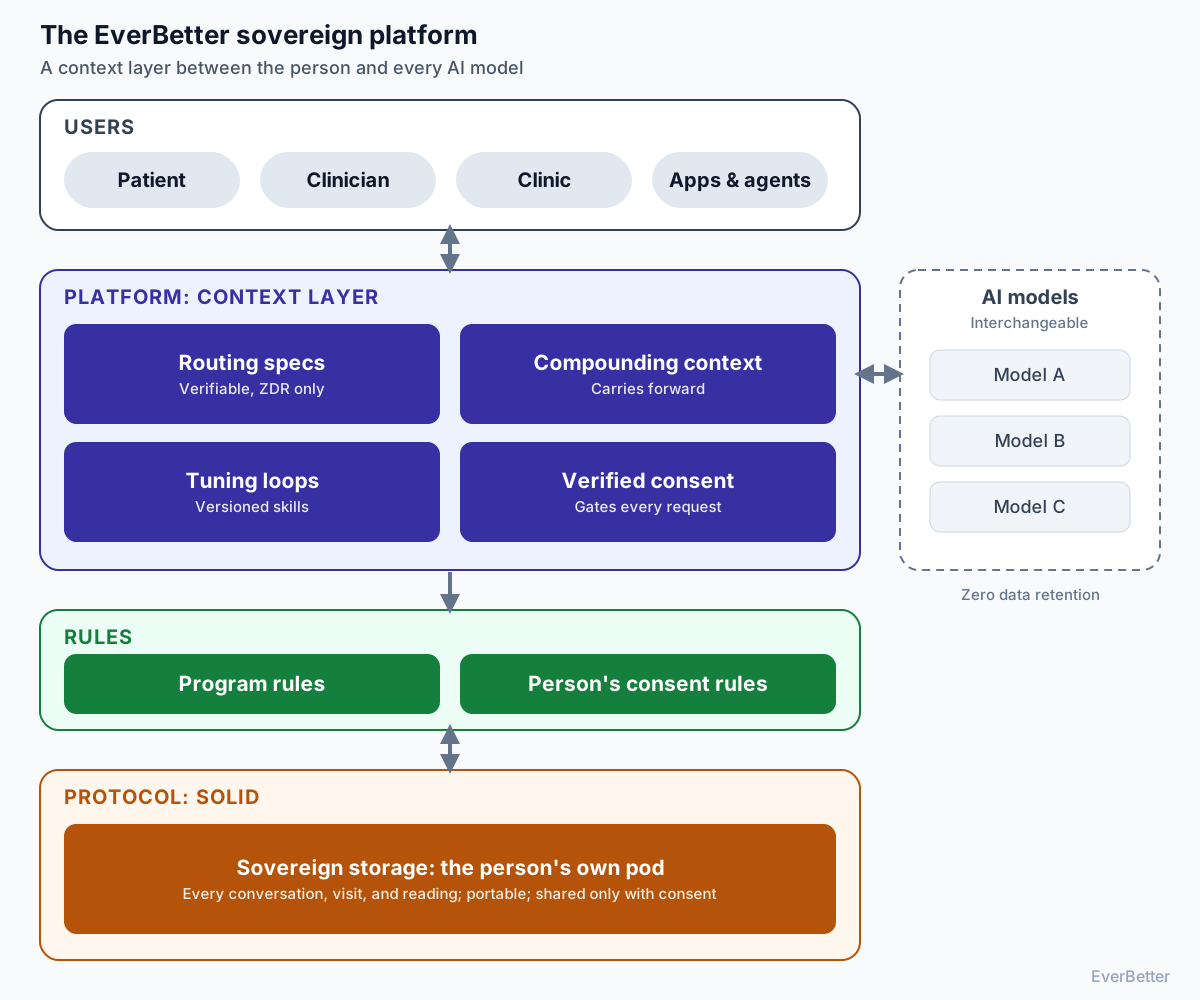
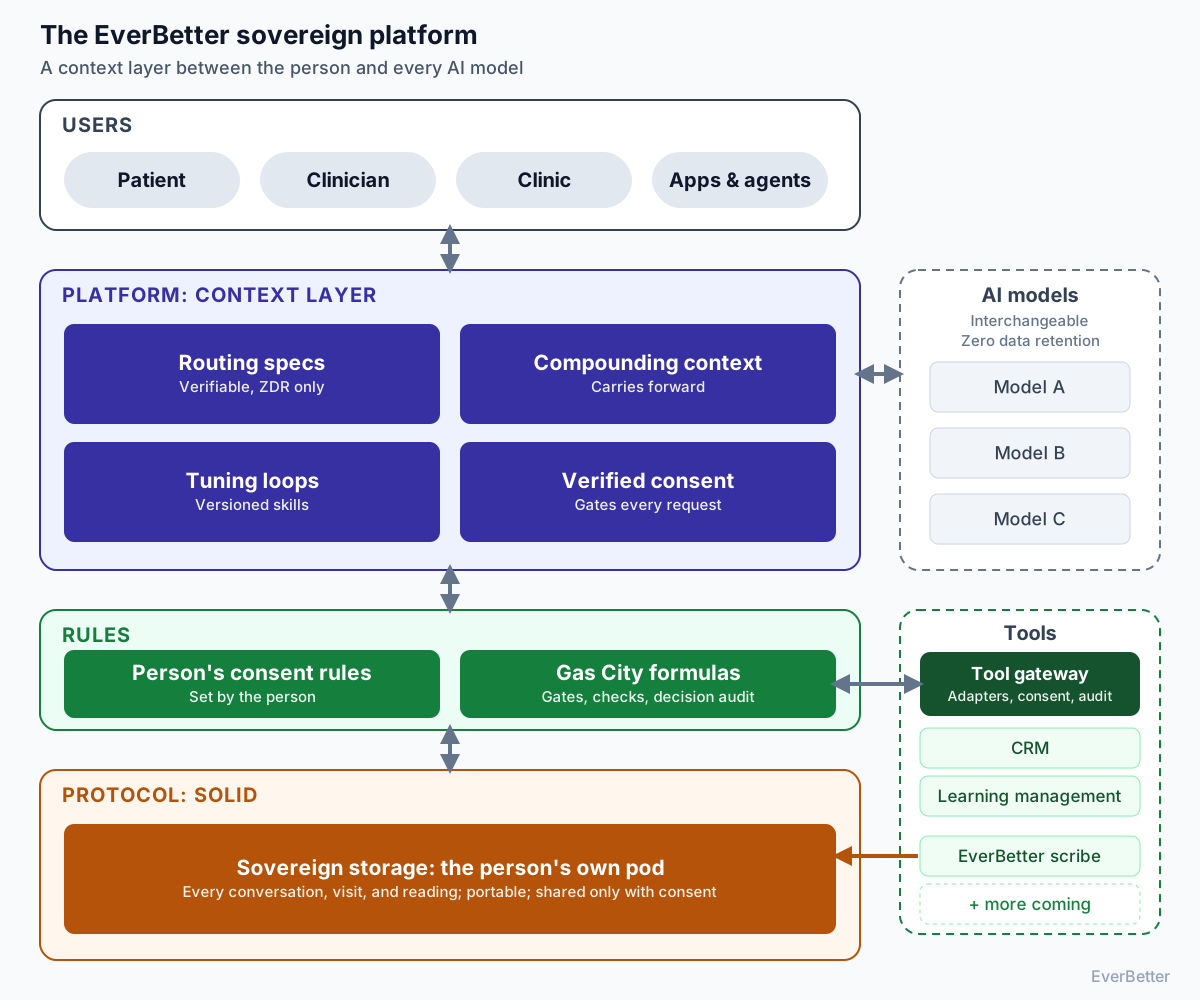
docs(gas-city): the credential incident, as evidence for the first ask
The first ask was about a quarantined check letting its step close — a gate
failing OPEN. The 2026-10-09 incident is the same missing distinction failing
the other way, and it is better evidence because it happened unattended and we
read it wrong first.

The Claude CLI OAuth session expired while two workflows ran over three days.
Every agent attempt failed in under a second, and SEVEN steps closed fail:

    Write the design
    Gate: the design passes its rules
    Gate: the audit is real and came from a different model
    Gate: every question came back with an answer
    A person answers
    Put the findings in front of a person
    Draw both views and the brief

Read cold, a design that failed its rules, failed its audit gate and could not
be drawn. It was one credential. The attempt log records only "attempt subject
<id> already failed" — the bead that failed, not what failed about it.

So the two asks merge into one, because they are one missing distinction: Gas
City records pass or fail and has no third outcome for could-not-run. We already
solved this inside our own layer and know the fix is small — before exit 75
existed, a missing API key reached a person as "your design needs revision".

The part that makes it a correctness issue rather than ergonomics: the bead store
IS the audit record, and a record that cannot distinguish "this was refused" from
"this could not be attempted" answers a regulator's question wrongly, in the
[…]

diff --git a/docs/for-gas-city.md b/docs/for-gas-city.md
@@ -160,8 +160,11 @@ A non-trivial workload, run repeatedly over two weeks:
 - `gc sling` → cook → materialize → route, confirmed by reading `routed_to` rather than output
 - the control dispatcher, the ready queue, and bead metadata as the run's own record
 
-It works. The failures we hit were almost entirely at **the boundary between a formula and the
-scripts it invokes** — which is partly your surface, and is in §5.
+It works, including unattended for three days across a credential expiry — the beads carried
+every run intact, and nothing had to be reconstructed.
+
+The failures we hit were almost entirely at **the boundary between a formula and the scripts it
+invokes** — which is partly your surface, and is in §5.
 
 ---
 
@@ -169,11 +172,74 @@ scripts it invokes** — which is partly your surface, and is in §5.
 
 Ordered by how much it costs us.
 
-**1. A quarantined check must not let its step close.** This is the one that matters. A check that
-cannot run leaves its step free to close, so a gate can fail *open* when its check is broken. For
-anyone using checks as controls — which is the entire regulated use case — that is a correctness
-problem, not an ergonomics one. We work around it by making each gate its own step with a bead a
-person can read afterwards. We cannot work around it in general.
+**1. A step that could not run must not close as a step that failed — and a check that could not
+run must not let its step close at all.** One ask, because it is one missing distinction, and it
+is the only thing on this list I would call a correctness problem rather than an ergonomics one.
+
+Gas City records a step as `pass` or `fail`. There is no third outcome for *could not run*, and the
+gap shows in both directions:
+
+- **failing open.** A quarantined check leaves its step free to close, so a gate permits when its
+  own check is broken. We work around it by making every gate its own step with a bead a person can
+  read afterwards. We cannot work around it in general.
+- **failing closed, and misattributing it.** An infrastructure failure consumes the step's attempts
+  and closes it `fail`, which reads as a verdict on the work.
+
+### The incident, 2026-10-09
+
+We left two workflows running unattended over three days. The Claude CLI's OAuth session expired:
+
+```
+Failed to authenticate: OAuth session expired and could not be refreshed
+```
+
+Every agent attempt after that failed in under a second. When we came back, one run showed **seven
+steps closed `fail`**:
+
+```
+FAILED  Write the design
+FAILED  Gate: the design passes its rules
+FAILED  Gate: every question came back with an answer
+FAILED  Gate: the audit is real and came from a different model
+FAILED  A person answers
+FAILED  Put the findings in front of a person
+FAILED  Draw both views and the brief
+```
+
+Read cold, that is a design that failed its rules, failed its audit gate, and could not even be
+drawn. **None of it is true.** It is one expired credential. The authoring step spent all five of its attempts on an
+auth error, and the `gc.attempt_log` records only `attempt subject <id> already failed` — which
+names the bead that failed, not what failed about it.
+
+Nothing was lost, because our artifacts are files and the answers survived. But anyone auditing
+those beads later finds six controls that read as refusals and were not, and the cost of telling
+the difference is a person remembering what was happening that week.
+
+### Why we care about this one more than the others
+
+We already solved it inside our own layer, which is how we know the fix is small and the benefit is
+large. Every check we write honours three codes, and the third is the whole point:
+
+```
+0   the condition does not hold; work continues
+1   refused — a BUSINESS outcome, and the refusal names the next human action
+75  could not run — INFRASTRUCTURE. Costs no attempt, and never reads as a failure
+```
+
+Before we had 75, a missing API key reached a person as *"your design needs revision."* After it,
+the same failure says what was missing and costs nothing. That one distinction removed more
+confusion than any other change we made.
+
+What we cannot do is carry it upward. Our checks exit 75 faithfully; the orchestrator has nowhere
+to put it, so it becomes `fail` on the bead. For a regulated buyer this matters beyond
+ergonomics: **the bead store is the audit record**, and an audit record that cannot distinguish
+*"this was refused"* from *"this could not be attempted"* is answering a regulator's question
+wrongly, in the direction that looks worse than reality.
+
+The shape of the ask: a third terminal outcome on a step — `blocked`, `could_not_run`, whatever you
+call it — that does not consume an attempt, and that a formula can be told to treat as neither pass
+nor fail. If exit 75 from an exec check already reaches you, most of the information is there
+already.
 
 **2. Per-step thinking effort.** No supported way to set it, so every stumble in a cheap
 deterministic step costs max-effort deliberation. Our most expensive runs were expensive for this

diff --git a/docs/DISCOVERIES.md b/docs/DISCOVERIES.md
@@ -385,3 +385,13 @@ the design was not written for, and the new paths are where the deadlocks are.
 **cost** Nothing, because they were rendered before being published. Everything, had they not been.
 **changed** Every diagram is rendered to SVG and committed beside the document, and a test refuses a sequence message carrying either token.
 **generalizes** A document is not verified by being written carefully. The same notation can have different lexers per diagram type, and the subset that works in one is not the subset that works in another. Render it, or do not claim it.
+
+---
+
+## D29 · 2026-10-12 · An expired credential closed seven steps as business failures
+
+**believed** Our exit-code contract — 0 pass, 1 refused, 75 could not run — protects the record. Every check we write honours it faithfully.
+**happened** The Claude CLI OAuth session expired while two workflows ran unattended for three days. Every agent attempt failed in under a second, and seven steps closed gc.outcome=fail: Write the design, Gate: the design passes its rules, Gate: the audit is real, and four more. The beads read as a design that failed its rules and could not be drawn. It was one credential. The attempt log records only 'attempt subject <id> already failed', which names the bead that failed and not what failed about it.
+**cost** Three days of unattended running, and a diagnosis that began by reading the run as a broken design.
+**changed** Nothing in our layer, because our checks already exit 75 correctly. The orchestrator has nowhere to put a 75, so it becomes fail on the bead. Written up as the first ask in the Gas City letter, with this incident as the evidence.
+**generalizes** A contract honoured on one side of a boundary is not honoured. 75 means could-not-run only as far as the layer that reads it; one layer up, where the audit record actually lives, it is indistinguishable from refusal — and in the direction that looks worse than reality.
